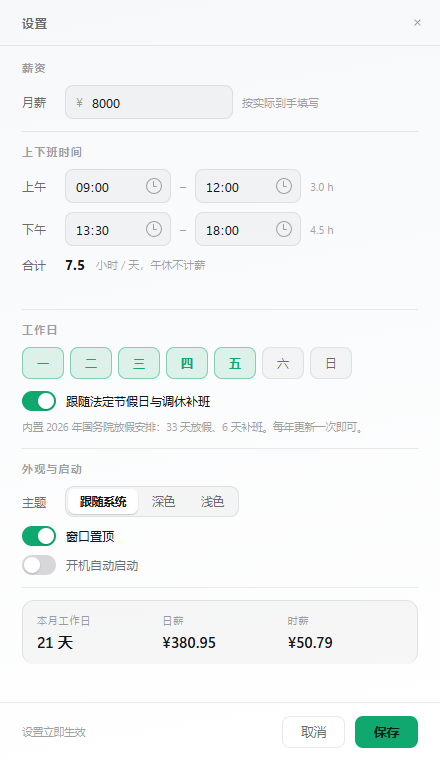
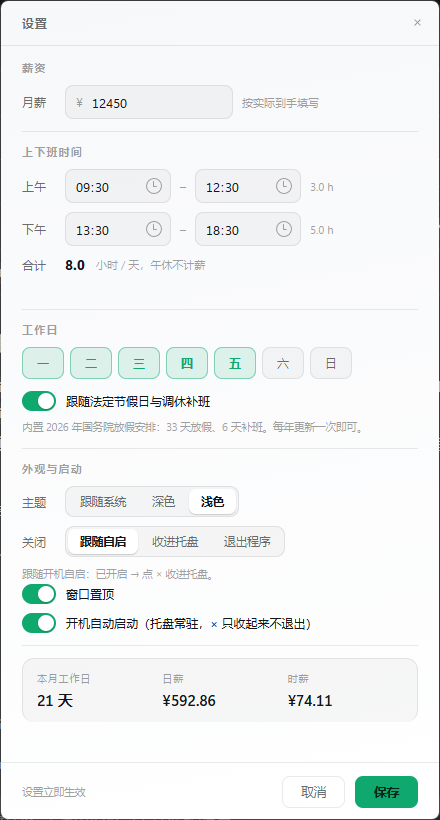
docs: 重写说明文档并补充运行截图
README 重写为界面说明、功能、计算口径、状态机、运行与操作、目录结构、
开发流程与已知边界，并修掉原文件中导致被判定为二进制的 NUL 字节。
补充实机运行截图（深色工作中、浅色设置页），总览图随截图重生成。

diff --git a/README.md b/README.md
@@ -1,166 +1,128 @@
-# 工资时钟 · Wage Clock
+# 工资时钟 · Wage Clock
 
-一个常驻 Windows 桌面的小窗口：设置月薪和上下班时间后，它会根据系统时间实时算出「今天已经赚了多少」，金额按秒滚动上涨，同时倒数今天还剩多少工时。
+把上班时间换算成钱的 Windows 桌面小挂件：实时滚动「窝囊费已赚」，倒数距离下班还有多久，进度条是一根从左往右烧掉的仙女棒。
 
-![状态总览](shots/sheet.png)
+![运行中](shots/live-working.png)
 
 ---
 
-## 直接运行
+## 界面
 
-双击 **`C:\Users\Administrator\Apps\WageClock\WageClock.exe`** 即可（已安装副本）。
+| 位置 | 含义 |
+| --- | --- |
+| 左上 | 日期 + 状态徽标（待开工 / 工作中 / 午休 / 已下班 / 今日休息） |
+| 中间 | **窝囊费已赚**：4 位整数 + 4 位小数，按秒滚动；颜色按今日完成度从红渐变到绿 |
+| 进度条 | 已过的时间烧成灰，未过的仍是引线，交界处是喷火星的火头 |
+| 底栏左 | 距周末：到本周最后一个班次结束 |
+| 底栏中 | 距下班：数字钟到百分秒 `07:18:00.00` |
+| 底栏右 | 本月：已出勤 / 应出勤 |
+| 右上 | 置顶、设置、隐藏（×） |
 
-> ⚠ **不要直接运行本仓库 `build\` 里的 exe**：DSH 工作目录被打上了
-> `Mandatory Label\Low Mandatory Level`，Windows 会让从这里启动的进程继承低完整性，
-> 后果是托盘图标注册失败（UIPI 拒绝）、开机自启写不进去、配置退化成绿色便携模式。
-> 装到普通目录（如 `C:\Users\Administrator\Apps\`）就一切正常。
-> 开发时从仓库构建、拷到安装目录再运行。
+## 功能
 
-- 免安装，整个 `build\` 文件夹可以拷到任意位置（U 盘也行）。
-- 依赖系统自带的 **WebView2 运行时**（Windows 11 已内置；Windows 10 若缺失，装一下
-  [WebView2 Runtime](https://developer.microsoft.com/microsoft-edge/webview2/) 即可）。
-- 首次启动出现在屏幕右下角，托盘有图标；再次双击 exe 不会开第二个窗口。
+- **时间驱动**：不开历史账单，每一帧都从系统时间重算，改系统时间、跨零点、休眠唤醒都不会算错或累加。
+- **两段班次**：上午 + 下午，中间午休不计薪，金额与进度条一起冻结。
+- **法定节假日**：内置 2026 年国务院放假与调休补班表，补班的周末照常计薪。
+- **仙女棒进度条**：火头每秒喷射约 95 颗带拖尾的火星，受重力下坠；进度条画的是「还剩多少引线」。
+- **深 / 浅 / 跟随系统**：点一下立即生效，不用保存；点取消会还原。
+- **托盘常驻**：关闭行为可选「跟随自启 / 收进托盘 / 退出程序」，托盘图标左键切换显示，右键菜单退出。
+- **开机自启**：写注册表 Run 项，启动时直接进托盘。
 
-## 它做什么
+## 设置页
 
-| 能力 | 说明 |
-|---|---|
-| 实时累计 | 20 帧/秒按「已工作秒数 ÷ 应工作秒数」重算；整数位大字号、小数位（4 位）缩到 2/3，末位持续跳动 |
-| 两段班次 | 上午、下午各自设定起止时间，午休空档不计薪、金额冻结 |
-| 自动日历 | 按月份自动数出应出勤工作日，内置 2026 年国务院放假安排（33 天放假 + 6 天补班） |
-| 自动换算 | 日薪 = 月薪 ÷ 当月工作日；时薪 = 日薪 ÷ 每日工时；设置页实时预览 |
-| 五种状态 | 待开工 / 工作中 / 午休 / 已下班 / 今日休息，各自给出对应文案与倒计时 |
-| 倒计时 | 距下班（数字钟到百分秒 7:18:00.00）与距周末（到本周最后一个班次结束） |
-| 进度变色 | 金额与「距下班」按今日完成度从红线性渐变到绿：0% 纯红，50% 偏黄，100% 纯绿 |
-| 仙女棒进度条 | 进度条画的是「还剩多少引线」：已过的时间烧成灰（暗、带颗粒，越靠近火头越焦），未过的是引线；火头每秒喷射约 95 颗带拖尾的火星。午休停火、下班只剩灰 |
-| 底栏 | 一行三格：距周末 / 距下班（数字钟）/ 本月出勤 |
-| 窗口 | 无边框、Windows 11 由 DWM 抗锯齿倒角、默认置顶；顶部约 100px 区域都能拖；记忆位置，屏幕变动后自动回到主屏右下角 |
-| 托盘 | 左键点图标 → 显示/隐藏窗口；右键 → 设置、置顶、开机自启、退出 |
-| 找回窗口 | 任务栏按钮 / `Ctrl+Alt+W` / 再双击一次 exe（会叫回隐藏的窗口）/ 托盘图标 |
-| 主题 | 跟随系统 / 深色 / 浅色 |
-| 开机自启 | 写入 HKCU Run 并带 `--tray`：开机后只在托盘静默运行，不弹窗（Low 完整性环境下会失败并在设置页提示） |
+![设置页](shots/live-settings.png)
 
-### 计算口径（三句话）
+月薪、上下班时间、工作日、节假日开关、主题、关闭行为、窗口置顶、开机自启。底部实时显示本月工作日、日薪、时薪。
 
-1. **日薪 = 月薪 ÷ 当月应出勤天数**。所以 2 月（春节）日薪高、10 月（国庆）日薪也高，因为分子不变、分母变小了。
-2. **今日已赚 = 日薪 × 已工作秒数 ÷ 每日应工作秒数**，只统计上午段与下午段内的时间；午休、班前、班后一律不计。
-3. **时间是唯一真相**：每次 tick 都拿系统时间重新算，不做累加。电脑睡眠、锁屏、进程被杀都不会漂移；代价是手动改系统时间会跳变。
+## 计算口径
 
-## 设置项
+```
+日薪 = 月薪 ÷ 当月应出勤工作日           （含法定节假日与调休补班）
+时薪 = 日薪 ÷ 每日工时                   （两段班次时长之和，午休不计）
+已赚 = 日薪 × 已工作秒数 ÷ 应工作秒数     （向下取整到 4 位小数）
+进度 = 已工作秒数 ÷ 应工作秒数           （0…1，线性，用于金额颜色）
+```
 
-- **月薪**：按实际到手填写（税后口径），保留两位小数。
-- **上午 / 下午**：`HH:MM` 起止，结束必须晚于开始，下午不能早于上午结束。
-- **工作日**：周一~周日任选（默认周一~周五）。
-- **跟随法定节假日与调休补班**：打开后按 `src\lib\holidays.json` 判定；关闭则只认星期几。
-- **关闭**：点 × 时收进托盘还是退出，三选一，默认「跟随开机自启」。
-- **主题**：点一下即时生效（不用保存），点取消会还原；深/浅/跟随系统三选一。
-- **窗口置顶 / 开机自启**。
+工资表按月统计，月份变了工作日数跟着变；节假日只影响「某天算不算工作日」，不影响当月总数逻辑。
 
-保存后立即生效，今日已赚按新参数即时重算（不追溯历史）。
+## 状态机
 
-## 数据放在哪
+| 状态 | 触发 | 金额 | 进度条 |
+| --- | --- | --- | --- |
+| 待开工 | 工作日、早于上午上班 | 0，只倒计时 | 整根完好，无火头 |
+| 工作中 | 任一班次时段内 | 线性增长 | 灰烬增长，火头随之前移 |
+| 午休 | 两段班次之间 | 冻结 | 火头定格，火星停喷 |
+| 已下班 | 晚于下午下班 | 等于日薪，不再增长 | 整条烧成灰，火头熄灭 |
+| 今日休息 | 周末或法定假日 | 0 | 进度条隐藏 |
 
-| 内容 | 位置 |
-|---|---|
-| 设置 | `%APPDATA%\WageClock\settings.json` |
-| WebView2 缓存 | `%APPDATA%\WageClock\webview\` |
-| 备选（APPDATA 不可写时） | exe 同目录 `data\`，即绿色便携模式 |
+各状态实拍：
 
-改坏了想重来：删掉 `settings.json` 再启动即可回到默认值（8000 元 / 9:00–12:00 / 13:30–18:00）。
+![状态总览](shots/sheet.png)
 
-## 快捷键与操作
+## 运行
+
+已安装副本：`C:\Users\Administrator\Apps\WageClock\WageClock.exe`，双击即可。
 
 | 操作 | 效果 |
-|---|---|
-| 拖动顶部约 100px 区域 | 移动窗口（位置自动记住）；按钮除外 |
-| `Ctrl + Alt + W` | 全局显示 / 隐藏窗口（窗口藏起来后最可靠的一键找回） |
-| `Alt + P` | 切换窗口置顶 |
-| 右上角 × | 按设置里的「关闭」行为走：跟随自启（默认）/ 收进托盘 / 退出程序 |
-| 右上角齿轮 / 图钉 | 设置 / 置顶 |
-| 窗口上右键 | 菜单：设置 / 隐藏 / 置顶 / 退出 |
-| 再双击一次 `WageClock.exe` | 不会开第二个实例，而是把已有窗口叫回前台 |
-| 任务栏按钮 | 按 `Win + D` 之后点它即可恢复 |
+| --- | --- |
+| 拖动卡片空白处 | 移动窗口，位置自动记住 |
+| `Ctrl` + `Alt` + `W` | 全局快捷键，显示 / 隐藏 |
+| 右键卡片 | 菜单：设置 / 隐藏窗口 / 窗口置顶 / 退出 |
+| 左键托盘图标 | 显示 / 隐藏 |
+| 右键托盘图标 | 菜单：显示隐藏 / 设置 / 退出 |
+| `×` | 按「关闭行为」设置执行：跟随自启 / 收进托盘 / 退出程序 |
 
-**关于托盘图标**：Windows 11 默认把所有新出现的托盘图标折叠进 `^`，没有公开 API 能要求常驻。
-程序每次启动会尝试把 `HKCU\Control Panel\NotifyIconSettings\<条目>\IsPromoted` 置 1——这是系统唯一会读的"上托盘"标志，
-但只有系统已经为这个图标建过条目时才生效（通常要手动拖出过一次、或重启登录过一次）。
-想立刻让它常驻：点 `^` 打开折叠区，把 ¥ 图标拖到任务栏上，系统会记住。
-不拖也没关系：任务栏按钮、`Ctrl + Alt + W`、再运行一次 exe 都能找回窗口。
+设置与窗口位置保存在 `%APPDATA%\WageClock\settings.json`。
 
-> **为什么有的环境里根本没有托盘图标**：Windows 的 UIPI 禁止低完整性进程向任务栏窗口发消息，
-> `Shell_NotifyIcon` 会直接返回 `FALSE` + `ERROR_ACCESS_DENIED (5)`。如果进程是以低完整性
-> （Low IL，`S-1-16-4096`）启动的——被沙箱、受限令牌或某些自动化工具拉起就会这样——图标永远注册不出来，
-> 同时写 `HKCU\...\Run` 也会被拒。任务管理器「详细信息 → 完整性级别」列可以直接确认。
->
-> 程序检测到这种情况时会：写日志说明原因；`--tray` 启动不再隐藏到不存在的托盘（直接显示窗口）；
-> 设置页给红字提示；`×` 退化为直接退出，避免"藏起来又找不回"。
+## 项目结构
 
-退出：窗口上右键 → 退出，或托盘图标右键 → 退出。
-`×` 的行为由设置页「关闭」控制，三选一：**跟随自启**（默认，自启开着就收托盘、关着就退出）/ **收进托盘** / **退出程序**。
-设置页会实时显示当前实际行为（"跟随开机自启：未开启 → 点 × 直接退出"）。
+```
+src/
+  index.html            卡片页面
+  settings.html         设置页
+  lib/schedule.js       排班与薪资计算（纯函数，浏览器与 Node 共用）
+  lib/holidays.json     2026 年法定节假日与调休补班
+  scripts/widget.js     卡片渲染、滚动数字、仙女棒粒子、主题
+  scripts/settings.js   设置页表单与实时预览
+  scripts/bridge.js     页面与宿主的 IPC 封装
+  styles/               两套界面的样式
+host/
+  WageClock.cs          WinForms + WebView2 宿主：窗口、托盘、热键、持久化
+  Shot.cs               固定时刻截图工具（回归用）
+  AssemblyInfo.cs       程序集信息
+  app.manifest          DPI 感知声明
+tools/
+  build.ps1             用 csc 编译宿主
+  make-icon.ps1         生成多尺寸应用图标
+  make-sheet.ps1        把各状态截图拼成总览图
+  wv2/                  WebView2 SDK 程序集（构建依赖）
+tests/schedule.test.js  计算核心的 10 个单测
+shots/                  总览图与实机截图（各状态图由 --shot 生成，不入库）
+design/                 第一轮需求线框
+```
 
-### 命令行
+## 开发
+
+**构建**（需要 .NET Framework 4.8 的 csc，Windows 10/11 自带）：
 
 ```powershell
-WageClock.exe            # 正常启动：显示窗口
-WageClock.exe --tray     # 静默启动：窗口预热好但不显示（开机自启用这个）
-WageClock.exe --quit     # 让已在运行的实例正常退出（会先保存设置）
-WageClock.exe --shot DIR # 截图回归：用固定时间渲染各状态
+.\tools\build.ps1                 # 输出 build\WageClock.exe
 ```
 
-`--quit` 也方便批处理/卸载脚本收尾；`--tray` 是开机自启写入的命令行。
-
-## 重新构建
-
-需要 .NET Framework 4.8（Win10/11 自带）与 WebView2 SDK 的两个托管 DLL（已在 `tools\wv2\`）。
+**测试**：
 
 ```powershell
-powershell -ExecutionPolicy Bypass -File tools\build.ps1     # 编译 host\*.cs → build\WageClock.exe
-node --test                                                   # 10 个算法单测
-powershell -ExecutionPolicy Bypass -File tools\make-icon.ps1  # 重新生成 assets\icon.ico
-powershell -ExecutionPolicy Bypass -File tools\make-sheet.ps1 # 重新拼出 shots\sheet.png
+node --test                       # 10 个用例，覆盖状态机、金额单调性、节假日、坏配置
 ```
 
-截图回归（不依赖真实时钟，用固定时间渲染真实页面）：
+**截图回归**：`WageClock.exe --shot DIR` 会用固定时刻渲染 11 张状态图（2 倍分辨率）。这些图是生成物、不入库；`tools\make-sheet.ps1` 发现缺图会自己调一次 `--shot`，再拼成 `shots\sheet.png`。命令行还有 `--tray`（启动即进托盘）、`--quit`（关闭已运行实例）。截图前要先退出正在运行的实例（单实例锁会挡住截图进程）。
 
-```powershell
-build\WageClock.exe --shot <输出目录>
-```
-
-## 目录结构
-
-```
-src\                     界面（HTML/CSS/JS，App 的全部外观都在这里）
-  index.html             主卡片
-  settings.html          设置窗口
-  lib\schedule.js        核心算法（纯函数，Node 与浏览器通用，10 个单测覆盖）
-  lib\holidays.json      法定节假日 / 调休补班数据
-  scripts\bridge.js      JS ↔ 宿主的消息桥（浏览器里跑时自动退化为 localStorage）
-  scripts\widget.js      渲染 + 滚动数字
-  scripts\settings.js    设置页
-host\                    C# 宿主（WinForms + WebView2，约 700 行）
-  WageClock.cs           窗口、托盘、自启、持久化、IPC
-  Shot.cs                截图回归工具
-tests\                   node --test
-tools\                   构建、图标、说明图脚本 + WebView2 SDK 引用
-build\                   产物（可直接运行）
-assets\                  应用图标
-shots\                   各状态截图
-design\                  第一轮的需求线框图
-```
+**调试开关**：`WAGE_CLOCK_DEBUG=1` 输出 IPC 与托盘日志到 `wage-clock.log`；`WAGE_CLOCK_DATA=<目录>` 指定数据目录，便于用隔离配置做实验。
 
 ## 已知边界
 
-- **节假日数据只到 2026 年**。2027 年起需要更新 `src\lib\holidays.json`（结构见文件内注释）；未覆盖的年份会自动退回「只认星期几」，设置页会给出提示。
-- **不支持跨零点的夜班**：两段班次必须在同一天内。
-- **不支持加班、迟到早退、请假扣款**：属于「今天赚了多少」之外的规则，暂不引入。
-- **不做本月累计 / 历史统计**：月中改月薪会让历史累计失真，需求没定之前不猜。
-- **开机自启写 HKCU Run 键**，个别安全软件会拦截；失败时设置页会红字提示具体原因，不再静默。
-- **托盘图标是否可见由系统决定**（Win11 默认折叠）。程序会尝试置 `IsPromoted`，但不保证立刻生效，见上文。
-
-## 后续可以加
-
-1. 2027 节假日数据 + 设置页内「手动标记某天上班/休息」。
-2. 本月累计与月历热力图（需要先定「月中改月薪如何重算」）。
-3. 托盘右键里的「今天不干了」——临时把剩余工时标记为已完成。
-4. 多套班次方案（例如周一三五与周二四不同）。
+- 仅 Windows 10 / 11，需要 **WebView2 Runtime**（Win11 自带，Win10 可能需要装）。
+- 单实例运行：再次启动会唤回已有窗口，不会开第二个。
+- 数据目录不可写时（例如放在受保护的目录）会退回到程序旁的 `data\`。
+- **不要从低完整性级别的目录启动**（例如某些沙箱路径）：进程会被降权，`Shell_NotifyIcon` 返回拒绝，托盘图标不出现、开机自启也写不进去。装到用户目录下再运行。
+- 节假日表目前只到 2026 年，跨年后需要更新 `src/lib/holidays.json`。
